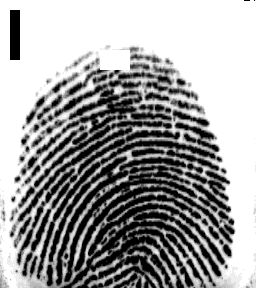
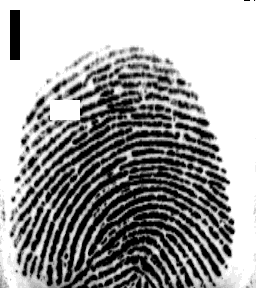
doxygen & rangement

Changed region(s): [[0.375, 0.1562, 0.5312, 0.25], [0.1875, 0.3438, 0.3125, 0.4375]]

diff --git a/demo/test_starter3.cpp b/demo/test_starter3.cpp
@@ -6,12 +6,7 @@
  * \date 01/12/20
  */
 
-#include <opencv2/core.hpp>
-#include <opencv2/core/types.hpp>
-#include <opencv2/imgcodecs.hpp>
-#include <opencv2/highgui.hpp>
-#include "opencv2/highgui/highgui.hpp"
-#include <iostream>
+
 #include "starter3.h"
 #include "Image.h"
 
@@ -20,7 +15,7 @@ using namespace std;
 
 int main(){
     Image finger("../img/clean_finger.png");
-    finger.display("initial", "initial");
+    finger.display("initial");
 
     //starter3
     //Id
@@ -30,55 +25,55 @@ int main(){
 
     cv::Mat_<float> conv_id = convolution(finger(), id);
     Image classic_id(conv_id);
-    classic_id.display("classic id", "classic id");
+    classic_id.display("classic id");
     classic_id.save("classic id");
 
     cv::Mat_<float> convDFT_id = convolutionDFT(finger(), id);
     Image dft_id(convDFT_id);
-    dft_id.display("DFT id", "DFT id");
+    dft_id.display("DFT id");
     dft_id.save("DFT id");
 
     //Diff
     Image diff_id = classic_id - dft_id;
-    diff_id.display("diff id", "diff id");
+    diff_id.display("diff id");
     diff_id.save("diff id");
 
     cv::destroyAllWindows();
 
     //Blurring
-    finger.display("initial", "initial");
+    finger.display("initial");
     size = 21;
     cv::Mat_<float> blur(size, size, 1);
     blur /= pow(size, 2);
 
     cv::Mat_<float> conv_blur = convolution(finger(), blur);
     Image classic_blur(conv_blur);
-    classic_blur.display("classic blur", "classic blur");
+    classic_blur.display("classic blur");
     classic_blur.save("classic blur");
 
     cv::Mat_<float> convDFT_blur = convolutionDFT(finger(), blur);
     Image dft_blur(convDFT_blur);
-    dft_blur.display("DFT blur", "DFT blur");
+    dft_blur.display("DFT blur");
     dft_blur.save("DFT blur");
 
     Image diff_blur = classic_blur - dft_blur;
-    diff_blur.display("diff blur", "diff blur");
+    diff_blur.display("diff blur");
     diff_blur.save("diff blur");
 
     cv::destroyAllWindows();
 
     //main3
-    finger.display("initial", "initial");
+    finger.display("initial");
     size = 10;
 
     cv::Mat_<float> dec = convolution_complex(finger(), size, finger().cols/2, finger().rows/2);
     Image dec_img(dec);
-    dec_img.display("energy decreasing", "energy decreasing");
+    dec_img.display("energy decreasing");
     dec_img.save("Energy decreasing");
 
     cv::Mat_<float> convblur = convolution_complex(finger(), size, finger().cols/2, finger().rows/2, false);
     Image blur_img(convblur);
-    blur_img.display("blurring", "blurring");
+    blur_img.display("blurring");
     blur_img.save("Blurring");
 
     return 0;

diff --git a/include/Image.h b/include/Image.h
@@ -14,7 +14,8 @@
 #include <opencv2/imgcodecs.hpp>
 #include <opencv2/highgui.hpp>
 #include <iostream>
-
+#include <opencv2/core/types.hpp>
+#include "opencv2/highgui/highgui.hpp"
 
 /**
  * \class Image
@@ -29,15 +30,15 @@ class Image{
         //Constructors
         /**
         * \brief Constructor
-        * \param Image path
+        * \param path Image path
         */
-        Image(cv::String);
+        Image(cv::String path);
 
         /**
         * \brief Constructor
-        * \param Matrix of pixels
+        * \param mat Matrix of pixels
         */
-        Image(cv::Mat_<float>);
+        Image(cv::Mat_<float> mat);
 
         //Operator overloading
         /**
@@ -77,9 +78,9 @@ class Image{
         /**
         * \brief Change the value of the pixels in a rectangle
         * \param x, y coordinates of the upper left point of the rectangle
-          length length of the rectangle
-          width width of the rectangle
-          color color of the pixels in the rectangle
+        * \param length length of the rectangle
+        * \param width width of the rectangle
+        * \param color color of the pixels in the rectangle
         * \return Image with the modified pixels
         */
         Image rectangle(int x, int y, unsigned int length, unsigned int width, float color);
@@ -113,10 +114,9 @@ class Image{
         //Plotting and saving
         /**
         * \brief Display the image
-        * \param windowname name of the window
-          imageName name of the image
+        * \param imageName name of the image
         */
-        void display(cv::String windowName = "Display finger_print", cv::String imageName = "Display finger_print");
+        void display(cv::String imageName = "Display finger_print");
 
         /**
         * \brief save the image in the folder img/saved

diff --git a/src/image.cpp b/src/image.cpp
@@ -1,4 +1,5 @@
-#include <iostream>
+// #include <iostream>
+
 
 #include "Image.h"
 
@@ -9,7 +10,6 @@ Image::Image(cv::String name){
 
     if (pixels.empty())                   // Check for invalid input
         throw std::runtime_error("Could not open or find the image");
-        /* std::cerr <<  "Could not open or find the image" << std::endl; */
     pixels /= 255.;
 }
 
@@ -58,8 +58,8 @@ Image Image::rectangle(int x_begin, int y_begin,
     cv::Mat_<float> new_mat = pixels.clone();
     Image new_pixels(new_mat);
 
-    for (int i = x_begin; i < x_begin + length; i++){
-        for (int j = y_begin; j < y_begin + width; j++){
+    for (int i = y_begin; i < y_begin + length; i++){
+        for (int j = x_begin; j < x_begin + width; j++){
             new_pixels(i,j) = color;
         }
     }
@@ -111,18 +111,16 @@ Image Image::sym_xy(){
 cv::Mat_<uchar> Image::from1to255()
 {
     cv::Mat_<uchar> res = pixels*255;
-    /* res *= 255; */
-    /* res = pixels.clone(); */
     return res;
 }
 
 
 // Plotting and saving
-void Image::display(cv::String windowName, cv::String imageName){
+void Image::display(cv::String imageName){
     cv::Mat_<float> tmp = pixels.clone();
     Image tmp_img(tmp);
     cv::Mat_<uchar> disp = tmp_img.from1to255();
-    cv::namedWindow( windowName, cv::WINDOW_AUTOSIZE ); // Create a window for display.
+    cv::namedWindow( imageName, cv::WINDOW_AUTOSIZE ); // Create a window for display.
     cv::imshow( imageName, disp );                // Show our image inside it.
     cv::waitKey(0); // Wait for a keystroke in the window
 }

diff --git a/demo/test_symmetries.cpp b/demo/test_symmetries.cpp
@@ -1,8 +1,12 @@
-#include <opencv2/core.hpp>
-#include <opencv2/core/types.hpp>
-#include <opencv2/imgcodecs.hpp>
-#include <opencv2/highgui.hpp>
-#include <iostream>
+/**
+ * \file test_starter3.cpp
+ * \brief Test for sections starter1 : symmetries
+ * \author Thomas.B Carole.B
+ * \version 0.1
+ * \date 01/12/20
+ */
+
+
 #include "Image.h"
 
 
@@ -10,18 +14,18 @@ int main()
 {
     cv::String s1( "../img/clean_finger.png" );
     Image img(s1);
-    img.display("Finger", "Finger");
+    img.display("Finger");
 
     Image img2 = img.sym_y();
-    img2.display("Symmetry along y", "Symmetry along y");
+    img2.display("Symmetry along y");
     img2.save("symmetry_y");
 
     Image img3 = img.sym_x();
-    img3.display("Symmetry along x", "Symmetry along x");
+    img3.display("Symmetry along x");
     img3.save("symmetry_x");
 
     Image img4 = img.sym_xy();
-    img4.display("Symmetry along the diagonal", "Symmetry along the diagonal");
+    img4.display("Symmetry along the diagonal");
     img4.save("symmetry_xy");
 
     return 0;

diff --git a/demo/test_rectangles.cpp b/demo/test_rectangles.cpp
@@ -1,8 +1,12 @@
-#include <opencv2/core.hpp>
-#include <opencv2/core/types.hpp>
-#include <opencv2/imgcodecs.hpp>
-#include <opencv2/highgui.hpp>
-#include <iostream>
+/**
+ * \file test_starter3.cpp
+ * \brief Test for sections starter1 : rectangle
+ * \author Clara.B
+ * \version 0.1
+ * \date 01/12/20
+ */
+
+
 #include "Image.h"
 
 
@@ -11,17 +15,15 @@ int main()
     cv::String s1( "../img/clean_finger.png" );
     Image finger(s1);
 
-    finger.display("Clean finger", "Clean finger");
+    finger.display("Clean finger");
 
     /* Image finger_float(finger); */
 
     Image res = finger.rectangle(10,10,50,10,0);
     res = res.rectangle(50, 100, 20, 30, 1);
-    res.display("Black and white rectangles", "Black and white rectangles");
+    res.display("Black and white rectangles");
 
     res.save("rectangles");
-    Image saved("../img/saved/rectangles.png");
-    saved.display("Saved image", "Saved image");
 
     return 0;
 }

diff --git a/src/starter3.cpp b/src/starter3.cpp
@@ -6,9 +6,7 @@
  * \date 01/12/20
  */
 
-#include <iostream>
-#include <cmath>
-#include <opencv2/core/types.hpp>
+
 #include "starter3.h"
 #include "Image.h"
 
